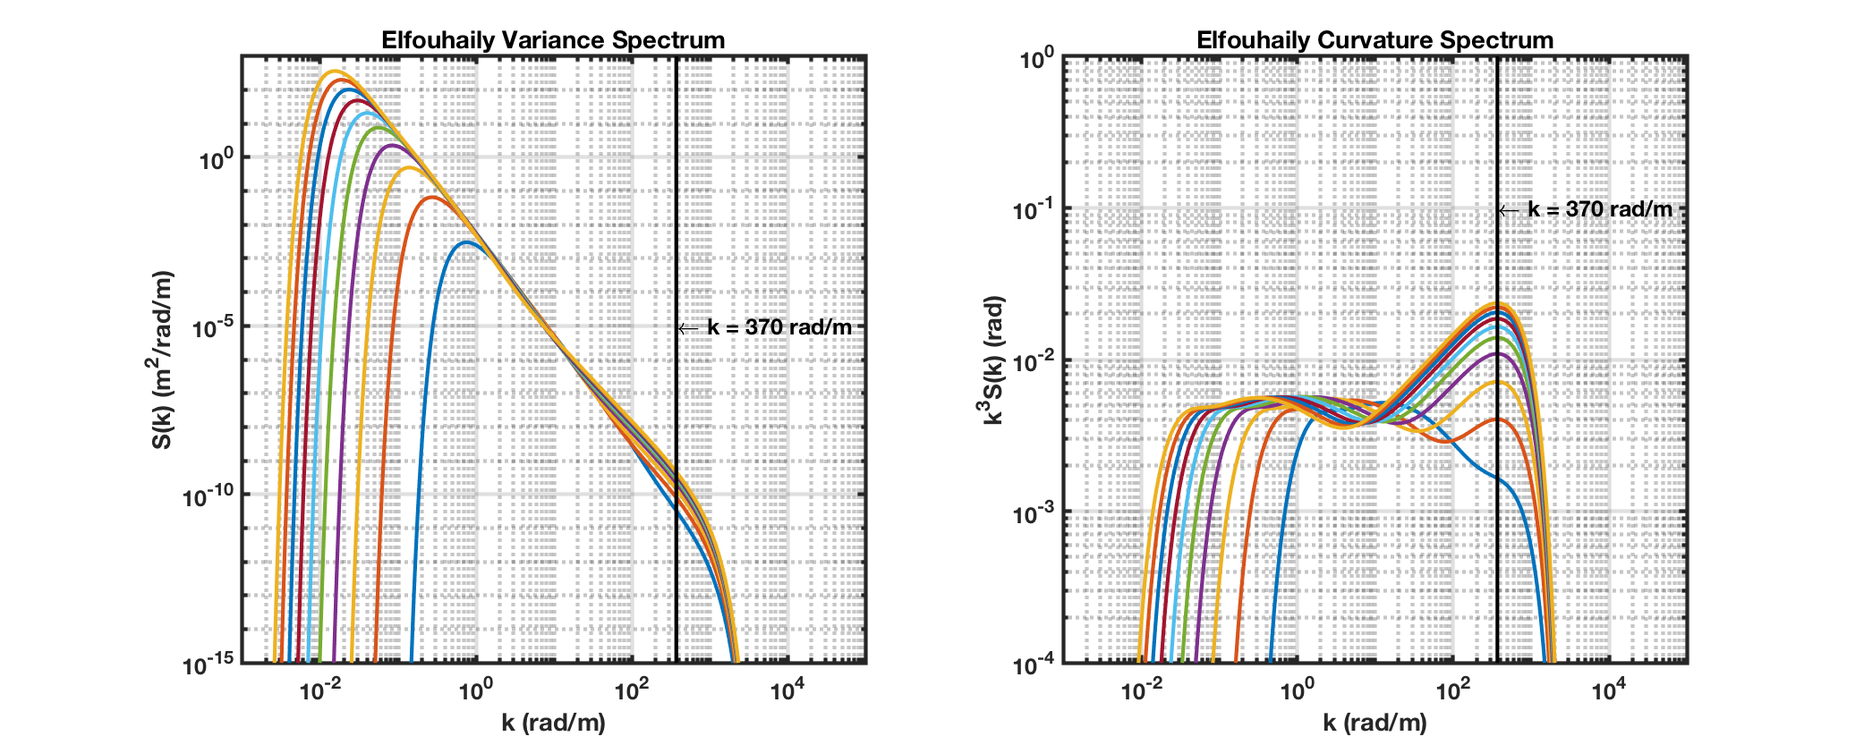
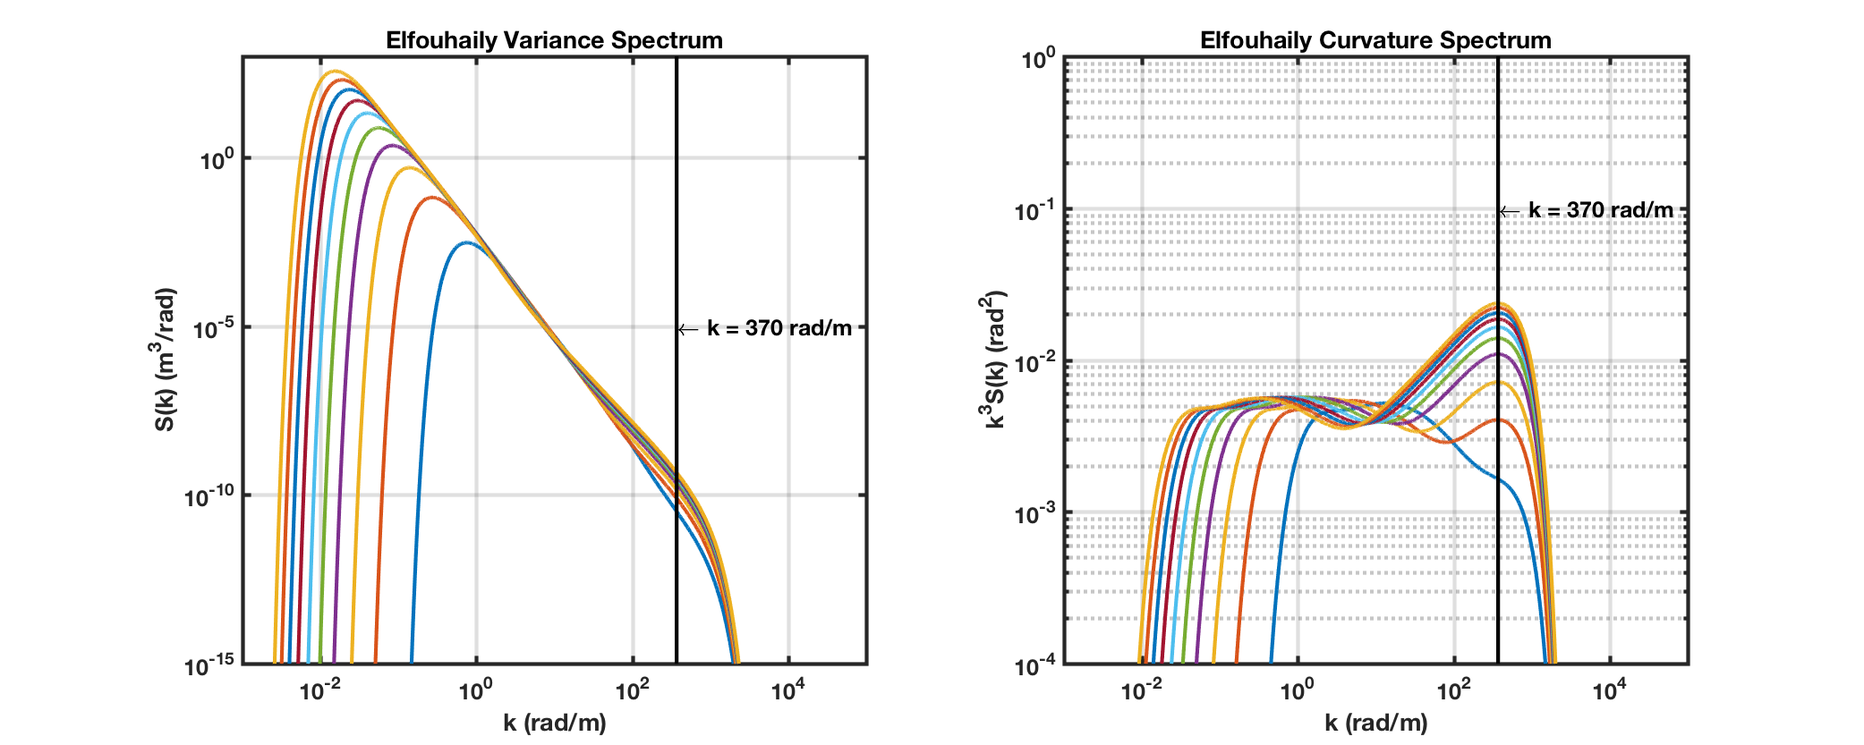
Adding Bretschneider updates, another clean up pass

diff --git a/src/ocean_surface_generation.tex b/src/ocean_surface_generation.tex
@@ -4,7 +4,7 @@ To capture the physical behavior of electromagnetic waves reflecting off the sur
 \section {Waves in the Ocean}
 Ocean waves are primarily driven by wind and start when turbulence creates capillary or surface waves with small wavelengths (on the order of a few centimeters). As the wind continues to blow, it increases both the amplitude and the wavelength of the waves until they start to interact. These interactions continue to increase the wavelength and phase speed of the waves until they are traveling faster than the wind, at which point the sea is fully developed. As a sea develops, the energy will transfer from higher frequencies to lower frequencies by the processes just described.
 
-Before discussing the statistical properties of ocean waves, it is useful to review some standard nomenclature. Fetch is the length over which the wind can be considered constant, and a longer fetch generally means higher waves. Significant wave height is the mean wave height of the highest third of the waves. Significant wave height is represented in the literature as $H_{1/3}$ and is equal to 4 times the standard deviation of the wave height, $H_{1/3} = 4\sigma_h$. Wave height refers to the mean difference between successive peaks and throughs (twice the amplitude).
+Before discussing the statistical properties of ocean waves, it is useful to review some standard nomenclature. Fetch is the length over which the wind can be considered constant, and a longer fetch generally means higher waves. Significant wave height is the mean wave height of the highest third of the waves. It is represented in the literature as $H_{1/3}$ and is equal to 4 times the standard deviation of the wave height, $H_{1/3} = 4\sigma_h$. Wave height refers to the mean difference between successive peaks and throughs (twice the amplitude).
 
 The phase speed of waves due to gravity in deep water is $v_p=\sqrt{g/k}$, which allows us to write the dispersion relation $\omega = \sqrt{gk}$. This dispersion relation is important for changing variables in the power spectra, for instance converting $S(\omega)$ to $S(k)$. We can use the fact that the amount of energy contained per unit interval is constant so that $S(k)dk = S(\omega)d\omega = S(f)df$. To convert a power spectrum in terms of $\omega$ to one in terms of $k$, we would use the expression in Equation \ref{os_eq:0aa}.
 \begin{equation}
@@ -16,7 +16,7 @@ The phase speed of waves due to gravity in deep water is $v_p=\sqrt{g/k}$, which
 Many methods have been proposed to statistically describe the behavior of ocean waves. These range from the simplest sea state representation with a very coarse binning of wind speed and sea height variations to the mathematically complex Elfouhaily variance power spectrum that unifies the more recent work.
 
 \subsection {Sea State}
-The modern concept of sea state is a combination of the Beaufort wind scale and the Douglas sea scale. The Beaufort scale was developed in the early 1800s by sir Francis Beaufort and the Douglas scale was developed in the 1920s by H.P Douglass, both of the Royal Navy \cite{uk_met_fact_sheet6}. The Beaufort scale measures the force of wind speed in 12 bins from Calm to Hurricane and was extended in 1944 to add scales up to 17. In 1960, it was further extended to add probable wave heights. The Douglas scale on the other hand measures sea height in 9 bins from Calm (glossy) to Phenomenal. The Word Meterological Organization (WMO) has adopted the Douglas sea scale as a standard \cite{wmo_code} and we can compare this to the Beaufort wind scale to add the dependency on wind speed as shown in Table \ref{os_tab:0}. There are no true standards when working with sea states, so care must be taken when comparing results between research groups.
+The modern concept of sea state is a combination of the Beaufort wind scale and the Douglas sea scale. The Beaufort wind scale was developed in the early 1800s by sir Francis Beaufort and the Douglas sea scale was developed in the 1920s by H.P Douglass, both of the Royal Navy \cite{uk_met_fact_sheet6}. The Beaufort wind scale measures force vs. wind speed in 12 bins from "Calm" to "Hurricane" and was extended in 1944 to add scales up to 17. In 1960, it was further extended to add probable wave heights. The Douglas sea scale on the other hand measures sea height in 9 bins from "Calm (glossy)" to "Phenomenal". The Word Meterological Organization (WMO) has adopted the Douglas sea scale as a standard \cite{wmo_code} and we can compare this to the Beaufort wind scale to add the dependency on wind speed as shown in Table \ref{os_tab:0}. There are no true standards when working with sea states, so care must be taken when comparing results between research groups.
 
 \begin{table}[H]
   \begin{center}
@@ -43,13 +43,13 @@ The modern concept of sea state is a combination of the Beaufort wind scale and 
 \renewcommand{\baselinestretch}{2} \small\normalsize
 
 \subsection{Pierson-Moskowitz Spectrum}
-In 1964, the Pierson-Moskowitz (PM) spectrum defined in Equation \ref{os_eq:1} was developed to describe the power spectrum of the variance of wave height in terms of the measured wind speed 19 meters above the sea surface ($U_{19}$) and the coefficient of gravity ($g=9.81 m/s^2$) \cite{michel_sea_spectra}. 
+In 1964, the Pierson-Moskowitz (PM) spectrum given in Equation \ref{os_eq:1} was developed to describe the power spectrum of the variance of wave height in terms of the measured wind speed 19 meters above the sea surface ($U_{19}$) and the coefficient of gravity ($g=9.81 m/s^2$) \cite{michel_sea_spectra}. 
  \begin{equation}
 S(k) = \frac{0.0081}{k^3}e^{-0.74\left(\frac{g}{k}\right)^2U_{19}^{-4}}
 \label{os_eq:1}
 \end{equation}
  \renewcommand{\baselinestretch}{2} \small\normalsize
- The PM power spectrum ($S$) is shown in the left hand side of Figure \ref{os_fig:1} and the associated curvature spectrum ($k^3S$) is shown in the right hand side of Figure \ref{os_fig:1}. These figures were generated for wind speeds from 3 m/s to 21 m/s in increments of 2 m/s. The curvature spectrum is also referred to as the saturation spectrum. It removes the $k^-3$ dependence of the power spectrum which can disguise some high spatial frequency behavior.
+The PM spectrum is a single parameter spectrum as it only allows tuning of the spectrum through wind speed in the exponential term of Equation \ref{os_eq:1}. The power spectrum ($S$) is shown in the left hand side of Figure \ref{os_fig:1} and the associated curvature spectrum ($k^3S$) is shown in the right hand side of Figure \ref{os_fig:1}, both for wind speeds from 3 m/s to 21 m/s in increments of 2 m/s. The curvature spectrum is also referred to as the saturation spectrum. It removes the $k^-3$ dependence of the power spectrum and allows some high spatial frequency behavior to be more readily observed.
  
  \begin{figure}[H]
   \begin{center}
@@ -62,10 +62,12 @@ S(k) = \frac{0.0081}{k^3}e^{-0.74\left(\frac{g}{k}\right)^2U_{19}^{-4}}
 \end{figure}
  \renewcommand{\baselinestretch}{2} \small\normalsize
  
-The PM spectrum assumes deep water, infinite fetch and no swells and has repeatedly been shown to be accurate for gravity waves in fully developed seas, but fails to capture spectral peaks due to high winds over short fetches. This means that the low spatial frequency component of the power spectrum is valid in almost all cases but the high spatial frequency component is not, as can be seen by the flat slope of both $S$ and $k^3S$ in Figure \ref{os_fig:1}.
+ From Figure \ref{os_fig:1} we can see that the wind speed impacts the spectral peak and low spatial frequency cutoff but has no effect for high spatial frequencies.
+ 
+The PM spectrum assumes deep water, infinite fetch and no swells and has repeatedly been shown to be accurate for gravity waves in fully developed seas, but fails to capture spectral peaks due to high winds over short fetches. This means that the low spatial frequency component of the power spectrum is valid in almost all cases but the high spatial frequency component is not.
 
 \subsection{Bretschneider Spectrum}
-To overcome the limitations of a spectrum that required fully developed seas, several multi-parameter spectra have been developed. In 1978, the 12th International Towing Tank Conference recommended the two-parameter Bretschneider spectrum given in Equation \ref{os_eq:1a} where the modal frequency $\omega_m$ is given by $\omega_m = 0.4\sqrt{g/H_{1/3}}$.
+To overcome the limitations of a spectrum that requires fully developed seas, several multi-parameter spectra have been developed. In 1978, the 12th International Towing Tank Conference recommended the Bretschneider spectrum \cite{michel_sea_spectra} given in Equation \ref{os_eq:1a} where the modal frequency $\omega_m$ is given by $\omega_m = 0.4\sqrt{g/H_{1/3}}$.
 \begin{equation}
   \begin{gathered}
   \label{os_eq:1a}
@@ -74,16 +76,33 @@ To overcome the limitations of a spectrum that required fully developed seas, se
 \end{equation}
 \renewcommand{\baselinestretch}{2} \small\normalsize
 
+The Bretschneider power spectrum ($S$) is shown in the left hand side of Figure \ref{os_fig:1a} and the associated curvature spectrum ($k^3S$) is shown in the right hand side of Figure \ref{os_fig:1a}, both for wave height standard deviations from 0.1 m to 1 m in increments of 0.1 m.
+
+ \begin{figure}[H]
+  \begin{center}
+\includegraphics[width=6in]{../media/Ocean_Surface/bs_variance_curvature_spectrum.png}
+  \end{center}
+  \renewcommand{\baselinestretch}{1} \small\normalsize
+  \begin{quote}
+    \caption[Bretschneider Variance and Curvature Spectra]{Bretschneider Variance and Curvature Spectra\label{os_fig:1a}}
+  \end{quote}
+\end{figure}
+ \renewcommand{\baselinestretch}{2} \small\normalsize
+The Bretschneider spectrum is a two-parameter spectrum as it allows tuning of both the exponential term and the amplitude in Equation \ref{os_eq:1a}.
+
 \subsection{JONSWAP Spectrum}
 Join North Sea Wave Project in the 1970s modified the Pierson-Moskowitz spectrum by adding a peak enhancement factor as shown in Equation \ref{os_eq:1b} \cite{michel_sea_spectra}.
 \begin{equation}
   \label{os_eq:1b}
   S(k) = S_{PM}(k)\nu^{\frac{k-k_0}{2\sigma^2k_0}} 
   \end{equation}
-The enhancement factor $\nu$ was empirically derived for many locations in the North Sea.
+The enhancement factor $\nu$ was empirically derived for many locations in the North Sea and allows tuning of the amplitude as in the Bretschneider spectrum. The difference is that the JONSWAP enhancement factor only amplifies the spectrum around the spectral peak.
 
 \subsection{Elfouhaily Spectrum}
-Many additional spectra have been developed and in 1997, Elfouhaily et. al extended several of these to provide a unified modern spectrum that is broken into low and high spatial frequency regions, $B_l$ and $B_h$, \cite{elfouhaily}.
+Many additional spectra have been developed and in 1997, Elfouhaily et. al extended several of these to provide a unified modern spectrum that is broken into low and high spatial frequency regions, $B_l$ and $B_h$, \cite{elfouhaily}. 
+
+\subsubsection{Spectrum Definition}
+The Elfouhaily spectrum is given in Equation \ref{os_eq:2}.
 \begin{equation}
   \label{os_eq:2}
   S(k) = k^{-3}\left[B_l + B_h \right]
@@ -91,18 +110,19 @@ Many additional spectra have been developed and in 1997, Elfouhaily et. al exten
 \renewcommand{\baselinestretch}{2} \small\normalsize
 The Elfouhaily spectrum is dependent on the wind speed at 10 m altitude ($U_{10}$) and the inverse age parameter ($\Omega$). The inverse age parameter indicates how developed the sea is; fully developed for $\Omega = 0.84$, mature for $\Omega = 1.0$, and young for $\Omega > 2.0$. 
 
-The low spatial frequency region, $B_l$, is given by Equation \ref{os_eq:3} and the parameters are defined in Table \ref{os_tab:1}.
+The low spatial frequency region, $B_l$, is given by Equation \ref{os_eq:3} and the parameters are defined in Table \ref{os_tab:1} and Equation \ref{os_eq:3a}.
 \begin{equation}
   \label{os_eq:3}
  B_l = \frac{1}{2} \alpha_p \frac{c_p}{c} F_p
 \end{equation}
 \renewcommand{\baselinestretch}{2} \small\normalsize
 \begin{subequations}
+\label{os_eq:3a}
    Low spatial frequency spectrum dependencies:
-\begin{align*}
-  F_p &= L_{PM}J_pe^{-\Omega\left[\sqrt{10}\left(\sqrt{k/_{k_p}} - 1 \right) \right]^{-1}} &  k_p &= g\left(\frac{\Omega}{U_{10}}\right)^2 & c_p &= \frac{U_{10}}{\Omega} \\
-   L_{PM} &=e^{-\frac{5}{4}\left(\frac{k}{k_p} \right)^2} &  J_p &= \gamma^\Gamma  & \alpha_p &= 0.006\Omega^{0.55} 
-\end{align*}
+\begin{align}
+  F_p &= L_{PM}J_pe^{-\frac{\Omega}{\sqrt{10}}\left[\sqrt{k/_{k_p}} - 1 \right]} &  k_p &= g\left(\frac{\Omega}{U_{10}}\right)^2 & c_p &= \frac{U_{10}}{\Omega} \\
+   L_{PM} &=e^{-\frac{5}{4}\left(\frac{k_p}{k} \right)^2} &  J_p &= \gamma^\Gamma  & \alpha_p &= 0.006\Omega^{0.55} 
+\end{align}
 \end{subequations}
 \renewcommand{\baselinestretch}{2} \small\normalsize
 \begin{table}[H]
@@ -124,21 +144,33 @@ The low spatial frequency region, $B_l$, is given by Equation \ref{os_eq:3} and 
 \end{center}
 \end{table}
 \renewcommand{\baselinestretch}{2} \small\normalsize
-The high spatial frequency region, $B_h$, is given by Equation \ref{os_eq:4} and the parameters are defined in Table \ref{os_tab:2}.
+The high spatial frequency region, $B_h$, is given by Equation \ref{os_eq:4} and the parameters are defined in Table \ref{os_tab:2} and Equations \ref{os_eq:4a} and \ref{os_eq:4b}.
 \begin{equation}
   \label{os_eq:4}
  B_h = \frac{1}{2} \alpha_m \frac{c_m}{c} F_m
 \end{equation}
 \renewcommand{\baselinestretch}{2} \small\normalsize
 \begin{subequations}
+\label{os_eq:4a}
    High spatial frequency spectrum dependencies:
-\begin{align*}
-  F_m &= L_{PM}J_pe^{-\frac{1}{4}\left[k/_{k_m} - 1 \right]^2 } & k_m & = 370 \text{ rad/m} &  c_m &=\sqrt{\frac{2g}{k_m}} \\
-  u^* &= \sqrt{0.00144}U_{10}  & \alpha_m &= \alpha_o\frac{u^*}{c_m}  \\
-  L_{PM} &=e^{-\frac{5}{4}\left(\frac{k}{k_p} \right)^2}  &  J_p &= \gamma^\Gamma
-\end{align*}
+\begin{align}
+  F_m &= L_{PM}J_pe^{-\frac{1}{4}\left[k/_{k_m} - 1 \right]^2 } & k_m & = 370 \text{ rad/m} &  c_m &=\sqrt{\frac{2g}{k_m}} = 0.23 \text{ m/s} \\
+  u^* &= \sqrt{0.00144}U_{10}  & L_{PM} &=e^{-\frac{5}{4}\left(\frac{k_p}{k} \right)^2}  &  J_p &= \gamma^\Gamma
+\end{align}
 \end{subequations}
 \renewcommand{\baselinestretch}{2} \small\normalsize
+
+\begin{equation}
+\begin{gathered}
+  \label{os_eq:4b}
+   \alpha_m= \begin{cases}
+    10^{-2}\left[1 + \log\left(\frac{u^*}{c_m} \right) \right],& \text{if } u^* \leq c_m\\
+    10^{-2}\left[1 + 3\log\left(\frac{u^*}{c_m} \right) \right], & \text{if } u^* > c_m\\
+  \end{cases}
+\end{gathered}
+\end{equation}
+\renewcommand{\baselinestretch}{2} \small\normalsize
+
 \begin{table}[H]
   \begin{center}
       \renewcommand{\baselinestretch}{1} \small\normalsize
@@ -166,11 +198,24 @@ The variables $L_{PM}$ and $J_p$ are found in both $B_l$ and $B_h$ and are given
     1.7,& \text{if } 0.84 < \Omega < 1\\
     1.7 + 6\log{\Omega}, & \text{if } 1 < \Omega < 5
   \end{cases} \\
-  \Gamma = \exp{\left[- \frac{\left(\sqrt{\frac{k}{kp} - 1} \right)}{2\sigma^2} \right]} \\
+  \Gamma = \exp{\left[- \frac{\left(\sqrt{\frac{k}{kp} - 1} \right)^2}{2\sigma^2} \right]} \\
   \sigma = 0.08\left[1 + 4\Omega^{-3} \right] \\
 \end{gathered}
 \end{equation}
 \renewcommand{\baselinestretch}{2} \small\normalsize
+
+We can compute the inverse age parameter from fetch as shown in Equation \ref{os_eq:5a} where $x$ is the dimensional fetch in m and $X$ is the non-dimensional fetch.
+\begin{equation}
+\label{os_eq:5a}
+\begin{gathered}
+ X = \frac{g}{U_{10}^2}x\\
+ X_0 = 2.2 \times 10^4 \\
+ \Omega = 0.84\tanh\left[\left(\frac{X}{X_0} \right)^{0.4} \right]^{-0.75} \\
+\end{gathered}
+\end{equation}
+\renewcommand{\baselinestretch}{2} \small\normalsize
+
+\subsubsection{Comparison with PM Spectrum}
 To compare the results, the Elfouhaily and PM variance spectra are shown in the left hand side of Figure \ref{os_fig:2} for wind speeds of 5 m/s and 10 m/s. The inverse age parameter was set to 0.84 to match and the wind speed at 19 m was approximated from $U_{19} \approx 1.026 U_{10}$. The Elfouhaily spectra are shown by the dashed lines and indicate a deviation from the PM spectra at large wave numbers. The corresponding curvature spectra are shown in the right hand side of Figure \ref{os_fig:2}. The secondary peak in the Elfouhaily curvature spectrum is shown at 370 rad/m.
 \begin{figure}[H]
   \begin{center}
@@ -195,18 +240,48 @@ To look at the dependence on wind speed, the Elfohaily variance spectrum is show
 \renewcommand{\baselinestretch}{2} \small\normalsize
 
 \subsection{Directional Spreading Functions}
-All the variance power spectra that have been discussed are uni-directional, meaning they only apply downrange in the direction of the wind. For two-dimensional surfaces, we need to include angular extent.
+All the variance power spectra that have been discussed are uni-directional, meaning they only apply downrange in the direction of the wind. For two-dimensional surfaces, we need to include angular extent. This can be accomplished by applying a spreading function $\Phi$ as shown in Equation \ref{os_eq:5b} \cite{elfouhaily}.
+\begin{equation}
+\label{os_eq:5b}
+\Psi(k,\phi) = \frac{1}{k}S(k)\Phi(k,\phi)
+\end{equation}
+\renewcommand{\baselinestretch}{2} \small\normalsize
+
+As discussed in \cite{elfouhaily}, the spreading function should be symmetric in upwind-crosswind and will have the form given in Equation \ref{os_eq:5c}.
+\begin{equation}
+\label{os_eq:5c}
+\Psi)(k,\phi) = \frac{1}{2\pi}\left[1 + \Delta(k)\cos(2\phi) \right]
+\end{equation}
+\renewcommand{\baselinestretch}{2} \small\normalsize
+
+Where $\Delta(k)$ is defined as in Equation \ref{os_eq:5d}.
+\begin{equation}
+\label{os_eq:5d}
+\begin{gathered}
+\Delta(k) = \tanh\left( a_0 + a_p\left(\frac{c}{c_p}\right)^{2.5}  + a_m\left(\frac{c_m}{c} \right)^{2.5}\right)\\
+a_0 = \frac{\log(2)}{4} \\
+a_p = 4\\
+a_m = 0.13\frac{u^*}{c_m} \\
+\end{gathered}
+\end{equation}
+\renewcommand{\baselinestretch}{2} \small\normalsize
+
+The complete unified Elfouhaily spectrum is given in Equation \ref{os_eq:5e}.
+\begin{equation}
+\label{os_eq:5e}
+\boxed{\Psi(k,\phi) = \frac{1}{2\pi k^4}\left[B_l + B_h \right] \left[1 + \Delta(k)\cos(2\phi) \right]}
+\end{equation}
 
 \section{Generation of Sea Surface Realizations}
 Realizations of sea surfaces rely on adequate sampling to cover the spectral range of interest and then generating an appropriate set of Fourier coefficients.
 
 \subsection{Sampling Constraints}
-In order to generate a random sea surface height realization,  the first thing we need to establish is the number of points to use, $N$, and the spatial domain length to cover, $L$. These parameters define the geometry and sampling of the problem.The spatial domain sampling is given as $\Delta x = \frac{L}{N}$ and the frequency domain sampling is  given as $\Delta k = \frac{2\pi}{L}$.
+In order to generate a random sea surface height realization,  the first thing we need to establish is the number of points to use, $N$, and the spatial domain length to cover, $L$. The spatial domain sampling is then $\Delta x = \frac{L}{N}$ and the frequency domain sampling is $\Delta k = \frac{2\pi}{L}$.
 
 The highest wave number that can be sampled given these values is $k_{max} = \frac{N}{2}\Delta k = \frac{N\pi}{L} = \frac{\pi}{\Delta x}$ rad/m, which corresponds to a minimum wavelength of $\lambda_{min} = 2\Delta x = \frac{2L}{N} = \frac{4\pi}{\Delta k N}$ m.
 
 \subsection{Power Spectrum Discretization}
-We next follow the procedure outlined in \cite{percival_spectra},  where we work in the frequency domain and start with a set of Gaussian distributed random variables, $W_j$. We need to scale these random numbers by the square root of the Elfouhaily variance spectrum, arrange them so the sequence is Hermitian, and then take the inverse Fourier transform. For a sequence of $N$ variables, and a two-sided continuous power spectrum, $S(k)$, we can generate the frequency domain random variables, $V(k)$ as shown in Equation \ref{os_eq:6}.
+We next follow the procedure outlined in \cite{percival_spectra},  where we work in the frequency domain and start with a set of Gaussian distributed random variables, $W_j$. We need to scale these random numbers by the square root of the variance spectrum, arrange them so the sequence is Hermitian, and then take the inverse Fourier transform. For a sequence of $N$ variables, and a two-sided continuous power spectrum, $S(k)$, we can generate the frequency domain random variables, $V(k)$ as shown in Equation \ref{os_eq:6}.
 \begin{equation}
   \label{os_eq:6}   
   V_j = \begin{cases}
@@ -226,13 +301,13 @@ In order to understand the remaining scale factors and evaluate the 2nd moment, 
   V(-k) = \sqrt{\frac{1}{2}}\left[u(-k) - iv(-k) \right]\sqrt{S_d(-k)}
   \end{gathered}
 \end{equation}
-The 2nd moment of either of these functions individually is equal to $S_d(k)$, but the 2nd moment of the combined function is $2S_d(k)$. This means we need to multiply the sequence $V(k)$ by an additional scale factor of $\sqrt{\frac{1}{2}}$ to conserve the total energy. We could also arrive at this result by realizing that in Equation \ref{os_eq:7}, we are starting with a sequence of length $N/2$ and extending it to cover a length of $N$, effectively doubling the energy contained. The scaling factor corrections are shown in Equation \ref{os_eq:8}, which is valid for one-side discrete spectra.
+The 2nd moment of either of these functions individually is equal to $S_d(k)$, but the 2nd moment of the combined function is $2S_d(k)$. This means we need to multiply the sequence $V(k)$ by an additional scale factor of $\sqrt{\frac{1}{2}}$ to conserve the total energy. We could also arrive at this result by realizing that in Equation \ref{os_eq:6}, we are starting with a sequence of length $N/2$ and extending it to cover a length of $N$, effectively doubling the energy contained. The scaling factor corrections are shown in Equation \ref{os_eq:8}, which is valid for one-side discrete spectra.
 \begin{equation}
   \label{os_eq:8}   
   V_j = \begin{cases}
     \sqrt{\frac{1}{2}S_0\Delta k}W_0, & j = 0 \\
     \sqrt{\frac{1}{2}S_j\Delta k}\frac{1}{2}\left(W_{2j-1} + iW_{2j} \right), & 1 \leq j < \frac{N}{2} \\
-    \sqrt{\frac{1}{2}S_{N/_2}\Delta k}W_{N-1}, & j = \frac{N}{2} \\
+    0 & j = \frac{N}{2} \\
     V_{N-j}^*, &  \frac{N}{2} < j \leq N-1 
   \end{cases} 
 \end{equation}

diff --git a/mfiles/generateBretschneiderSpectra.m b/mfiles/generateBretschneiderSpectra.m
@@ -1,4 +1,4 @@
-function generatePMSpectra(varargin)
+function generateBretschneiderSpectra(varargin)
 
 saveFigs = 0;
 
@@ -11,8 +11,8 @@ k = 10.^p;
 
 h(1) = figure('pos',[50 50 1000 400]);
 subplot(1,2,1)
-for (u = 3:2:21) 
-   S = PiersonMoskowitz(k,u);
+for (u = 0.1:0.1:1.0) 
+   S = Bretschneider(k,u);
    loglog(k,S, 'LineWidth',2);
    hold on
 end
@@ -22,14 +22,14 @@ xlim([10^-3 10^4.5]);
 ylim([10^-15 10^3])
 xlabel('k (rad/m)');
 ylabel('S(k) (m^3/rad)')
-title('Pierson-Moskowitz Variance Spectrum')
+title('Bretschneider Variance Spectrum')
 set(gca,'LineWidth',2)
 set(gca,'FontSize',12)
 set(gca,'FontWeight','bold')
 
 subplot(1,2,2)
-for (u = 3:2:21) 
-   S = PiersonMoskowitz(k,u);
+for (u = 0.1:0.1:1.0) 
+   S = Bretschneider(k,u);
    loglog(k,k.^3.*S, 'LineWidth',2);
    hold on
 end
@@ -39,13 +39,13 @@ xlim([10^-3 10^4.5]);
 ylim([10^-4 10^-2])
 xlabel('k (rad/m)');
 ylabel('k^3S(k) (rad^2)')
-title('Pierson-Moskowitz Curvature Spectrum')
+title('Bretschneider Curvature Spectrum')
 set(gca,'LineWidth',2)
 set(gca,'FontSize',12)
 set(gca,'FontWeight','bold')
 
 if(saveFigs)
- saveas(h(1),'pm_variance_curvature_spectrum.png','png')
+ saveas(h(1),'bs_variance_curvature_spectrum.png','png')
 end
 
 

diff --git a/mfiles/generateElfouhailyVsPMSpectra.m b/mfiles/generateElfouhailyVsPMSpectra.m
@@ -35,7 +35,7 @@ text(370,10^-5,'\leftarrow k = 370 rad/m','FontWeight','bold','FontSize',12)
 
 legend('PM, U_{10} = 5m/s','PM,  U_{10} = 10 m/s','E,  U_{10} = 5 m/s','E,  U_{10} = 10 m/s')
 xlabel('k (rad/m)');
-ylabel('S(k) (m^2/rad/m)')
+ylabel('S(k) (m^3/rad)')
 set(gca,'LineWidth',2)
 set(gca,'FontSize',12)
 title('Variance Spectra')
@@ -59,7 +59,7 @@ ylim([10^-4 10^0])
 
 legend('PM,  U_{10} = 5m/s','PM,  U_{10} = 10 m/s','E,  U_{10} = 5 m/s','E,  U_{10} = 10 m/s')
 xlabel('k (rad/m)');
-ylabel('k^3S(k) (rad)')
+ylabel('k^3S(k) (rad^2)')
 
 set(gca,'LineWidth',2)
 set(gca,'FontSize',12)

diff --git a/mfiles/generateElfouhailySpectra.m b/mfiles/generateElfouhailySpectra.m
@@ -26,7 +26,7 @@ grid on
 xlim([10^-3 10^5]);
 ylim([10^-15 10^3])
 xlabel('k (rad/m)');
-ylabel('S(k) (m^2/rad/m)')
+ylabel('S(k) (m^3/rad)')
 text(370,10^-5,'\leftarrow k = 370 rad/m','FontWeight','bold','FontSize',12)
 title('Elfouhaily Variance Spectrum')
 set(gca,'LineWidth',2)
@@ -44,7 +44,7 @@ grid on
 xlim([10^-3 10^5]);
 ylim([10^-4 10^0])
 xlabel('k (rad/m)');
-ylabel('k^3S(k) (rad)')
+ylabel('k^3S(k) (rad^2)')
 l1 = linspace(-16,3,26);
 l = 10.^l1;
 plot(370*ones(size(l)),l,'k','LineWidth',2);

diff --git a/mfiles/Bretschneider.m b/mfiles/Bretschneider.m
@@ -1,0 +1,14 @@
+function S = Bretschneider(k,sigmaH)
+%S = PiersonMoskowitz(k,sigmaH)
+
+H13 = 4*sigmaH;
+%use the absolute value of k so that for 2-sided spectra, S(k) = S(-k)
+k = abs(k);
+
+g = 9.81;
+omegam = 0.4*sqrt(g/H13);
+A = 5*omegam^4./(32*k.^3*g^2)*H13^2;
+B = -1.25*omegam^4./(g^2*k.^2);
+
+
+S = A.*exp(B);

diff --git a/mfiles/PiersonMoskowitz.m b/mfiles/PiersonMoskowitz.m
@@ -10,4 +10,3 @@ g = 9.81;
 alpha = 0.0081;
 Beta= 0.74;
 S = alpha./(2*k.^3).*exp(-Beta*(g./k).^2*1/(U19)^4);
-S(k <= 0.02) == 0;
